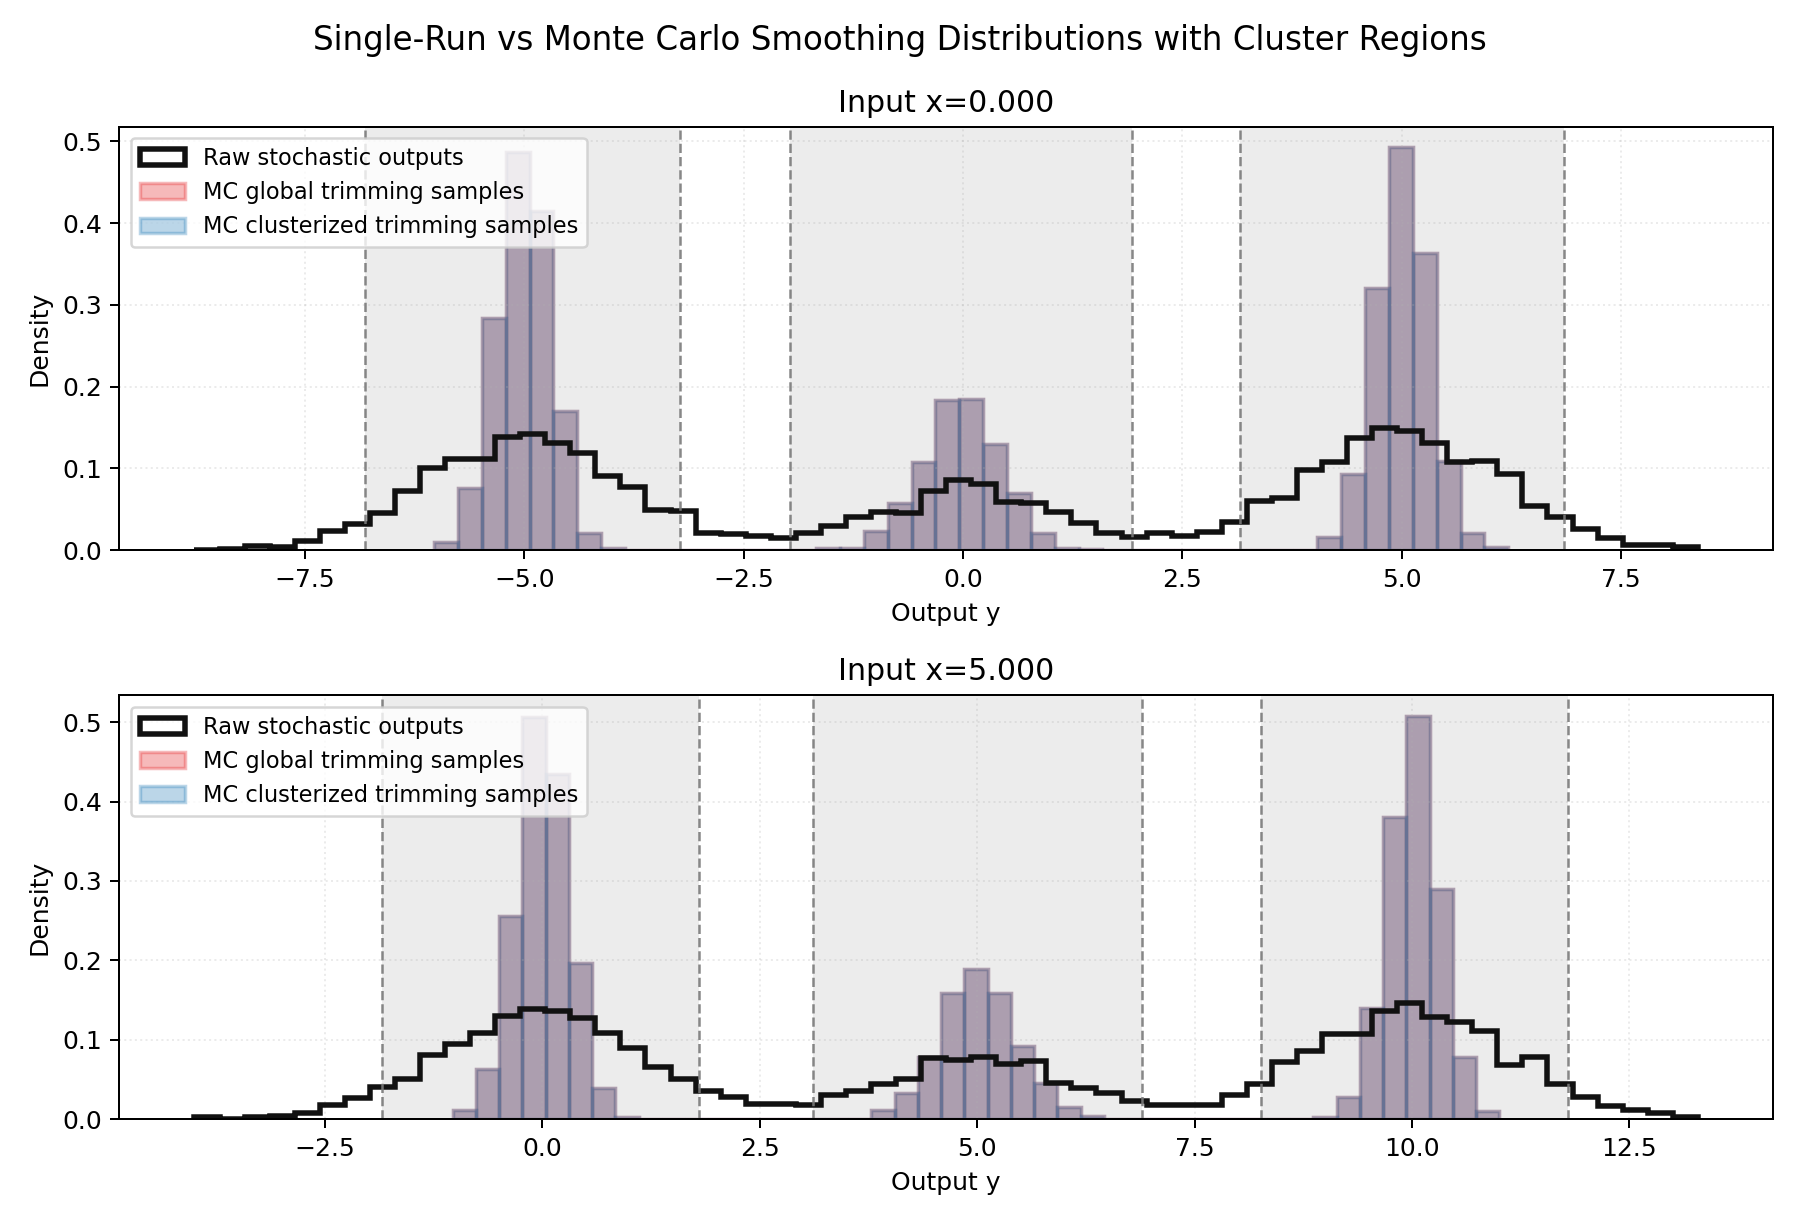
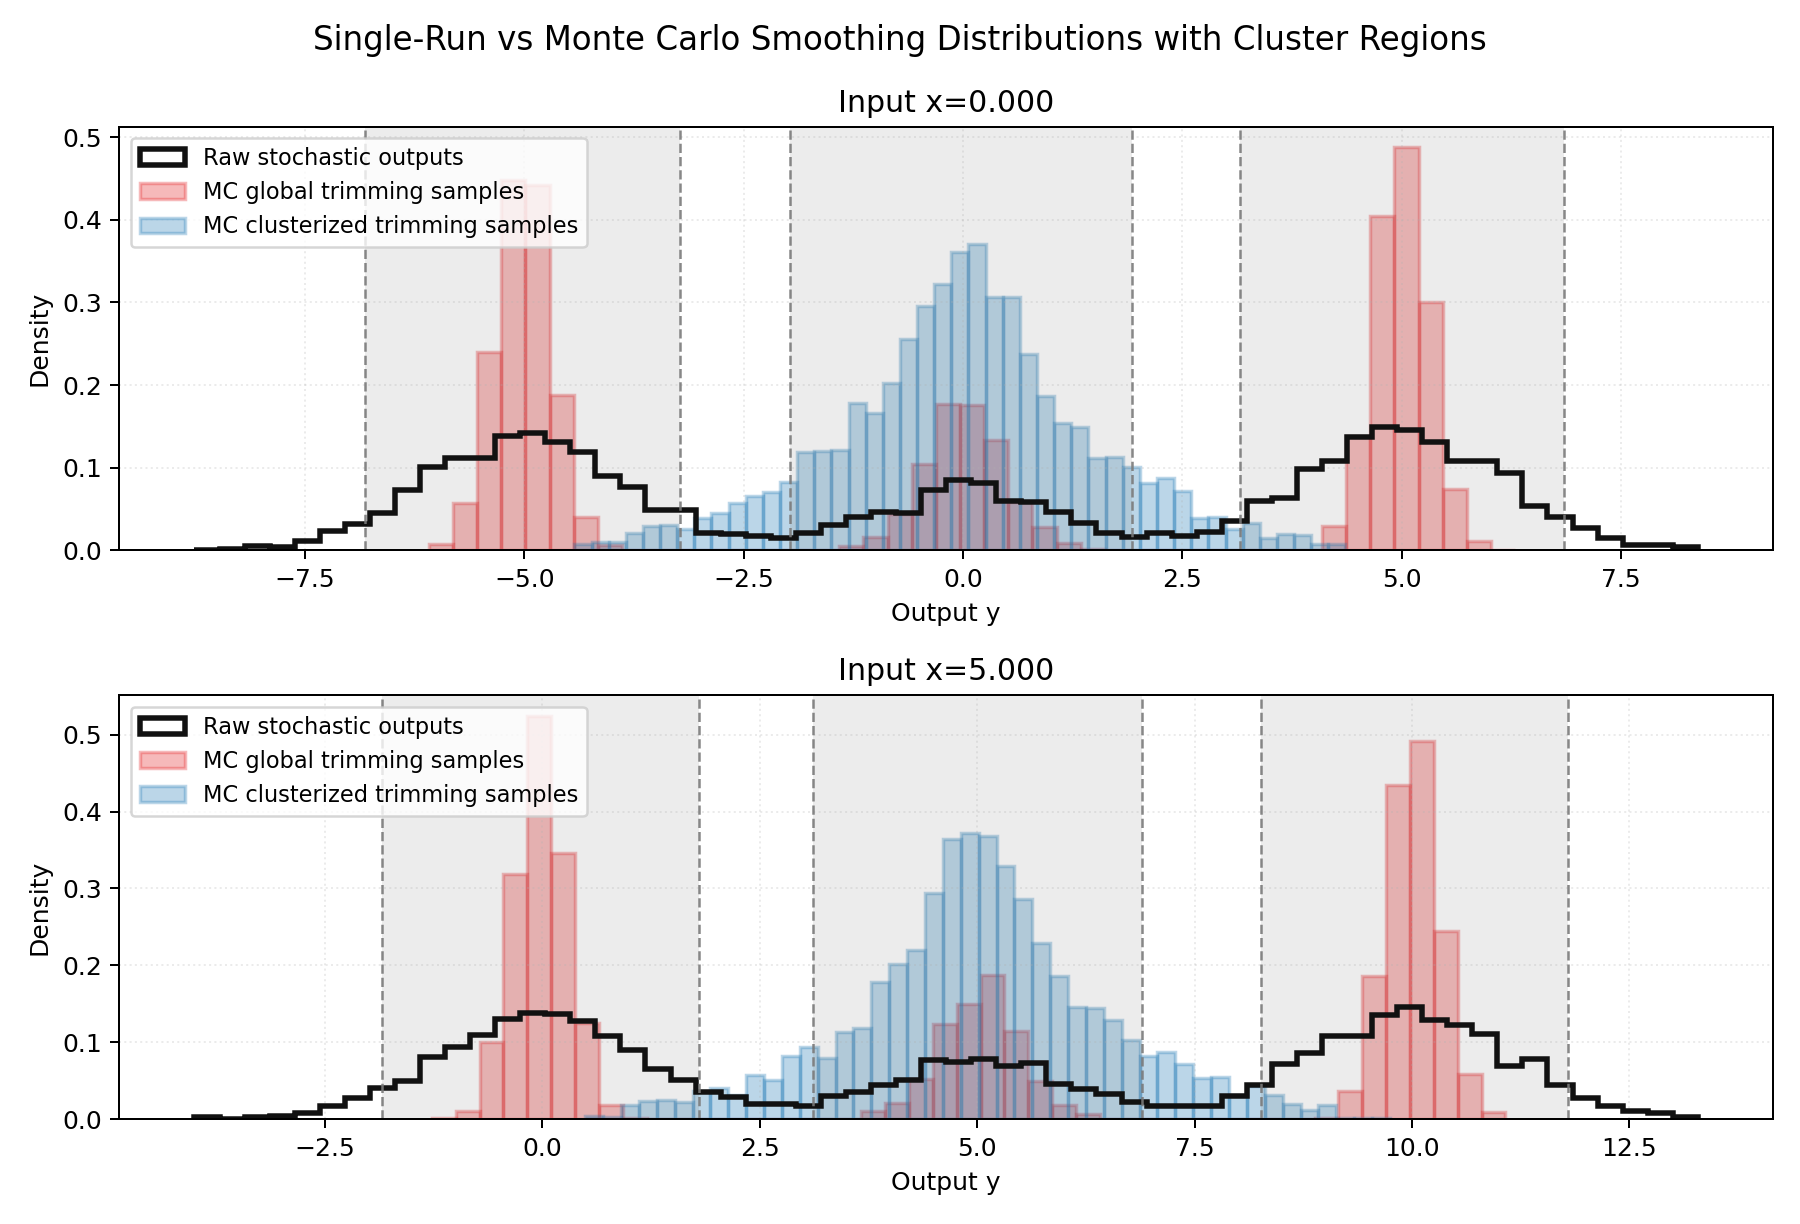
add rekavandi smoother for comparison

diff --git a/experiments/compare_distributions.py b/experiments/compare_distributions.py
@@ -16,9 +16,7 @@ if str(SRC) not in sys.path:
 from randomized_smoothing.clusters import Cluster
 from randomized_smoothing.distributions import MultivariateGaussian
 from randomized_smoothing.stochastic import ThreeMode1DGaussianMixture
-from randomized_smoothing.regions import HyperRectangle
 from randomized_smoothing.smoothing import (
-    AlphaTrimmingSmoothing,
     GaussianAlphaTrimmingSmoothing,
 )
 from plotting import plot_experiment_results
@@ -36,13 +34,14 @@ def main():
     )
 
 	# Define parameters
+    coverage = 0.9
     smoothing_parameters = SmoothingParameters(
         N=50,
         alpha=0.45,
     )
     clustering_parameters = ClusteringParameters(
         num_clusters=3,
-        coverage=0.9,
+        coverage=coverage,
     )
     confidence_parameters = ConfidenceParameters(
         beta=1e-2,
@@ -74,14 +73,29 @@ def main():
         parameters=parameters,
     )
 
+    rekavandi_smoother = GaussianAlphaTrimmingSmoothing(
+        stochastic_function=stochastic_fn,
+        x=x,
+        sigma=sigma,
+        parameters=Parameters(
+            smoothing=smoothing_parameters,
+            clustering=ClusteringParameters(
+                num_clusters=1,
+                coverage=coverage,
+            ),
+            confidence=confidence_parameters,
+        ),
+    )
+
 	# Plot empirical distributions of raw outputs and smoothed outputs
     smoother_mc_samples = smoother.monte_carlo(num_simulations=5000)
+    rekavandi_smoother_mc_samples = rekavandi_smoother.monte_carlo(num_simulations=5000)
 
     chart_paths = plot_experiment_results(
         x=x,
         outputs=raw_outputs,
         global_trimmed_mc_samples=smoother_mc_samples,
-        clusterized_mc_samples=smoother_mc_samples, # TODO: FIX
+        clusterized_mc_samples=rekavandi_smoother_mc_samples,
         region=smoother.regions,
         output_dir=ROOT / "outputs",
     )

diff --git a/src/randomized_smoothing/clopper_pearson.py b/src/randomized_smoothing/clopper_pearson.py
@@ -24,22 +24,8 @@ class ClopperPearsonInterval:
         probs_partition: torch.Tensor,
         parameters: ConfidenceParameters,
     ):
-        if probs_region.ndim != 2:
-            raise ValueError("probs_region must have shape (nx, num_clusters)")
-
-        if probs_partition.ndim != 2:
-            raise ValueError("probs_partition must have shape (nx, num_clusters)")
-
-        if probs_region.shape != probs_partition.shape:
-            raise ValueError("probs_region and probs_partition must have matching shape")
-
         n = int(parameters.num_samples)
-        if n <= 0:
-            raise ValueError("parameters.num_samples must be positive")
-
         nx, num_clusters = probs_partition.shape
-        if num_clusters <= 0:
-            raise ValueError("probs_partition must contain at least one cluster")
 
         self.num_clusters = int(num_clusters)
         self._confidence_beta = float(parameters.beta)

diff --git a/src/randomized_smoothing/clusters.py b/src/randomized_smoothing/clusters.py
@@ -49,8 +49,6 @@ class Cluster:
         return HyperRectangle.from_samples(samples=outputs, centroids=self.centroids, coverage=self.parameters.coverage)
     
     def _compute_probs_regions(self, outputs: torch.Tensor) -> torch.Tensor:
-        # Compute how many samples fall into each region
-        # Returns a tensor (nx, num_clusters) where each entry is the probability of a sample falling into the corresponding region
         lower = self.regions.lower
         upper = self.regions.upper
 
